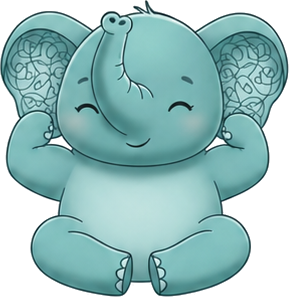
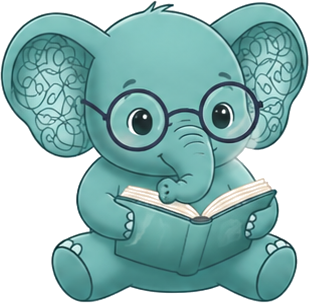
docs: apply captain revision 01 — mascot, AIRA title, remove client name
- Swap the header mascot to the serious reading-with-glasses pose; since it
  reads well on both themes, simplify the <picture> to a single <img> and drop
  the now-unreferenced second pose.
- Add AIRA as a centred <h1> wordmark directly beneath the mascot, above the
  slogan (order: mascot → AIRA → slogan → nav → hero). The slogan is marked in
  a comment as a placeholder that may change and is not referenced elsewhere.
- Remove the pilot client's institution name everywhere (README, one decision
  record, and three reports), generalising to "the pilot client" / "a university
  counseling service in Abu Dhabi" so the market analysis stays intact. Also
  strip the two identifying source URLs from the market report. grep -ri mbzuai
  over the repo now returns nothing.

diff --git a/docs/reports/market-competitive.md b/docs/reports/market-competitive.md
@@ -5,7 +5,7 @@
 Aira: a privacy-first, **local-first** documentation + longitudinal-insight web app for mental-health
 counselors. All patient data stays **encrypted on the therapist's own device** under a password only
 they hold, and is never uploaded. Browser-based, zero-backend. **Launch market: UAE** (first client is
-a counselor at MBZUAI, Abu Dhabi). **Second market: India.**
+a counselor at a university counseling service in Abu Dhabi). **Second market: India.**
 
 > **Naming / architecture note.** The prior brief (`handoff.md`) renamed the product to "Galene" and
 > described a **cloud-hybrid** architecture (in-region UAE backend, tokenized transcripts leave the
@@ -64,7 +64,7 @@ flagged again there.
   region has: **DoH Abu Dhabi Circular 147 (2022) orders licensed health entities to drop cloud
   services even when UAE-hosted**, and health data generally may not leave the UAE. Cloud SaaS
   competitors are structurally disadvantaged here. The one fact that must be pinned down before selling:
-  **is MBZUAI's counseling service regulated as health (DoH) or social-care (DCD), or neither?** — it
+  **is the pilot client's counseling service regulated as health (DoH) or social-care (DCD), or neither?** — it
   changes which rulebook applies. The economic buyer is the **university** (IT + procurement + legal),
   not the counselor.
 - **F — Cheap wins.** The genuinely cheap ones for a zero-backend app: consent-capture + audit log,
@@ -364,7 +364,7 @@ regulated-institution lane deliberately.
 
 ---
 
-## E. The MBZUAI / UAE launch context
+## E. The pilot client / UAE launch context
 
 *Not legal advice — publicly documented sources only; items needing local counsel are flagged. Full
 citations in Appendix E.*
@@ -404,11 +404,10 @@ citations in Appendix E.*
 
 ### The buying context
 
-- **MBZUAI** is a **public graduate university established and funded by the Abu Dhabi government**
-  (2019), with a formal centralized **procurement function** (https://procurementmag.com/company/mbzuai).
-  Its counseling is run through **Educational Affairs** by a Student Counselor / Wellbeing Specialist,
-  an *employee within a department* — **not an independent software buyer**
-  (https://mbzuai.ac.ae/student-resources/educational-affairs/).
+- **The pilot client** is a **public graduate university funded by the Abu Dhabi government**, with a
+  formal centralized **procurement function**. Its counseling is run through student **Educational
+  Affairs** by a Student Counselor / Wellbeing Specialist, an *employee within a department* — **not an
+  independent software buyer**.
 - **Practical read:** the counselor is your **champion**, but the **economic buyer is the university**
   (IT security + procurement + legal/DPO). A per-seat pilot on a department card is plausible as a
   foot-in-the-door, but scaling will draw institutional security review. **Prepare a one-page security/
@@ -416,14 +415,14 @@ citations in Appendix E.*
 
 ### The one fact to pin down before selling (needs local counsel)
 
-**Is MBZUAI's counseling service regulated as (a) a DoH-licensed *health* facility, (b) a **DCD**
+**Is the pilot client's counseling service regulated as (a) a DoH-licensed *health* facility, (b) a **DCD**
 (Department of Community Development) *social-care* service, or (c) an internal university student-
 services function outside both?** Abu Dhabi splits mental-health regulation this way, and it determines
 whether ADHICS + Circular 147 + the ICT Health Law bind it at all
 (https://www.therapyroute.com/article/mental-health-licensing-regulation-in-the-uae-2025-guide-by-therapyroute).
 **COULD NOT VERIFY publicly — this is the single most important compliance fact to confirm with UAE
 counsel, and it is a genuine open decision for the founder (flagged in the completion section).** Also
-unverified: MBZUAI's exact procurement thresholds (department-level vs central tender).
+unverified: the pilot client's exact procurement thresholds (department-level vs central tender).
 
 ### India (second market) — quick pass
 
@@ -520,7 +519,7 @@ since on-device inference is more constrained than a datacenter GPU — the priv
 because privacy is a gate, not a purchase driver. Two further risks: **(1)** the longitudinal analytics
 that justify the premium are the *hardest* thing to compute on-device (no server to crunch a caseload),
 so Aira is betting on doing the hard thing *and* the constrained thing simultaneously; **(2)** the
-regulator-alignment argument (Circular 147) only bites **if** MBZUAI's counseling is DoH-regulated — and
+regulator-alignment argument (Circular 147) only bites **if** the pilot client's counseling is DoH-regulated — and
 that is unverified (Section E). If it turns out to be an internal university function outside health
 regulation, the compliance-forcing advantage weakens to a general-trust advantage, and Aira is back to
 competing on note-quality and time-saved against better-funded incumbents.
@@ -528,8 +527,8 @@ competing on note-quality and time-saved against better-funded incumbents.
 **Mitigation implied by this:** make note-quality/speed *non-negotiably competitive first*, treat
 privacy as the trust gate you pass effortlessly (because it's architecturally true), and make the
 **longitudinal caseload cockpit** the thing the counselor can't get anywhere else — because that, not
-privacy alone, is what a budget-holding institution will actually pay for. And confirm the MBZUAI
-regulatory status early, because it determines how strong the launch-market moat really is.
+privacy alone, is what a budget-holding institution will actually pay for. And confirm the pilot
+client's regulatory status early, because it determines how strong the launch-market moat really is.
 
 ---
 
@@ -672,7 +671,7 @@ regulatory status early, because it determines how strong the launch-market moat
   https://www.lexology.com/library/detail.aspx?g=31a37267-4fd0-4c17-ad9c-dcd292f16493
 - ADHICS v2.0: https://www.cyberarrow.io/blog/adhics-abu-dhabi-healthcare-information-and-cyber-security-standard/
 - DoH vs DCD licensing: https://www.therapyroute.com/article/mental-health-licensing-regulation-in-the-uae-2025-guide-by-therapyroute
-- MBZUAI: https://mbzuai.ac.ae/student-resources/educational-affairs/ · https://procurementmag.com/company/mbzuai
+- Pilot client (public graduate university, Abu Dhabi) — institutional procurement and student educational-affairs profiles; identifying sources withheld to keep the client's identity private to the team.
 - India DPDP: https://www.livelaw.in/articles/cross-border-transfer-healthcare-data-reconciling-india-dpdpa-gdpr-542388 ·
   https://www.dpdpa.com/dpdparules/rule15.html
 
@@ -706,7 +705,7 @@ regulatory status early, because it determines how strong the launch-market moat
 - Synthesized into this report. Every non-obvious claim carries a URL; unverifiable facts are marked
   COULD NOT VERIFY.
 
-**Open decision that belongs to the founder (not resolvable by research):** whether MBZUAI's counseling
+**Open decision that belongs to the founder (not resolvable by research):** whether the pilot client's counseling
 service is DoH-regulated (health), DCD-regulated (social care), or an internal university function —
 which determines how strong the regulatory moat for local-first actually is, and needs UAE local
 counsel. Flagged to the completion gate.

diff --git a/docs/reports/feasibility-stack.md b/docs/reports/feasibility-stack.md
@@ -110,7 +110,7 @@ Two gaps: **(1) Arabic transcription quality**, and **(2) the missing LLM for fl
 |---|---|---|---|
 | **Installable PWA, on-device only** (base/Moonshine models, extractive notes) | Keeps invariant 2 fully intact; generous cached storage; survives iOS 7-day eviction | None — data never leaves device | **Recommended baseline.** Not "any browser tab", but "any browser, installed." Honest and still browser-delivered. |
 | **Smaller/better-fit model** (Moonshine Tiny Arabic 27M instead of Whisper) | Arabic WER ~21% at tiny size, iPhone-friendly | None | **Recommended for Arabic** — *pending* verification of its web/ONNX build (Decision-1). |
-| **Drop Arabic from V1**, ship English/European transcription only; Arabic sessions get manual/typed notes + de-id + longitudinal | Ships something honest now; de-risks the hardest leg | None | **Recommended fallback if Moonshine doesn't pan out.** The first client is bilingual (MBZUAI, English-medium); English transcription + Arabic *analysis* may be enough for the pilot. |
+| **Drop Arabic from V1**, ship English/European transcription only; Arabic sessions get manual/typed notes + de-id + longitudinal | Ships something honest now; de-risks the hardest leg | None | **Recommended fallback if Moonshine doesn't pan out.** The first client is bilingual (the pilot client is English-medium); English transcription + Arabic *analysis* may be enough for the pilot. |
 | **Small native/Electron companion** for heavy model work (large Whisper, bigger de-id, even a small local LLM) | Real note narration; better Arabic; no cloud | Keeps data local, but **breaks "any browser"** — it's an install, per-OS packaging, updates | Fallback if browser ASR quality is a dealbreaker. Contradicts the stated browser-first requirement; flag to founder. |
 | **Bring-your-own-key cloud model** (therapist pastes an OpenAI/Anthropic key for note narration / hard Arabic) | Best quality, trivially | **Breaks invariant 2 — audio/transcript leaves the device to a US API.** Also breaks the old in-region rule. | **Only as an explicit, off-by-default, clearly-labelled "you are sending data to X" toggle.** Never the default. Say so loudly. |
 
@@ -203,7 +203,7 @@ Optimizing for the founder's stated preference: **quality, simplicity, robustnes
 
 ---
 
-## 6. Section E — Build sequence (vertical slices, each demoable to the MBZUAI counselor)
+## 6. Section E — Build sequence (vertical slices, each demoable to the pilot counselor)
 
 Sizes are rough engineering effort, assuming one strong full-stack dev. The point of vertical slices is that each ends in something you can *show*.
 
@@ -216,7 +216,7 @@ Sizes are rough engineering effort, assuming one strong full-stack dev. The poin
 | **4** | **★ Arabic transcription** (Moonshine-Tiny or decision fallback) + RTL polish. | "Record an Arabic session; get usable Arabic text." | **L** | **HIGHEST RISK — de-risk before promising it.** Whisper-size Arabic is not good enough; Moonshine's web build is unverified. |
 | **5** | Hardening: recovery-key UX, storage-pressure warnings, export hygiene, CSP/COEP, accessibility, brand polish. | Pilot-ready. | **M** | Low–med. |
 
-**Sequencing logic:** Slice 0 and 1 are low-risk and *fully demonstrate the differentiated product* (private local vault + deterministic caseload insight) **without any ML** — that's your fastest credible demo to the MBZUAI counselor and it de-risks the whole business case before you spend effort on the fragile ASR legs. **Slice 4 (Arabic) carries the most technical risk and should be spiked in parallel from day one** (the Moonshine web-build verification is cheap and decisive — do it before committing the slice).
+**Sequencing logic:** Slice 0 and 1 are low-risk and *fully demonstrate the differentiated product* (private local vault + deterministic caseload insight) **without any ML** — that's your fastest credible demo to the pilot counselor and it de-risks the whole business case before you spend effort on the fragile ASR legs. **Slice 4 (Arabic) carries the most technical risk and should be spiked in parallel from day one** (the Moonshine web-build verification is cheap and decisive — do it before committing the slice).
 
 **Highest-risk item overall to de-risk first:** *Arabic transcription in-browser* (Slice 4). Second: *iOS persistence + memory* (touches Slices 0 and 2 — test on a real mid-range iPhone early, not the simulator).
 

diff --git a/docs/reports/competitor-site-study.md b/docs/reports/competitor-site-study.md
@@ -266,7 +266,7 @@ Two facts from the prior study must govern the pages, or we will mis-weight them
    **So Aira's pages must not be privacy-only.** Lead with the felt benefit and the one thing no one
    else has (the local caseload cockpit), and let architectural privacy be the *trust differentiator
    that we pass effortlessly and can prove* — not the whole pitch.
-2. **The economic buyer at MBZUAI is the institution, not the counselor.** The counselor is the
+2. **The economic buyer at the pilot client is the institution, not the counselor.** The counselor is the
    champion; university IT/procurement/legal decide. So the site needs **two doors**: a warm
    clinician-facing story *and* a cool, linkable **institutional security/compliance one-pager** that a
    security reviewer can forward. Bryl's whole site is solo-clinician; Mentalyc's security FAQ is the
@@ -288,7 +288,7 @@ Lead options for the H1 (pick/A-B test; all are architecturally true for V1):
   app store, no one else's server."*
 - **C (buyer's-outcome-led):** *"Notes done. Caseload clear. Nothing ever left your laptop."*
 
-**Nouns.** Use **"counselor"** (matches the MBZUAI role) and **"caseload"/"students"** — the prior
+**Nouns.** Use **"counselor"** (matches the pilot client's role) and **"caseload"/"students"** — the prior
 study's own framing is "80 students." Prefer **"client"** or **"student"** over **"patient"**:
 counseling convention and every competitor use "client," and a university wellbeing service uses
 "student." *(Flag: internal Aira materials sometimes say "patient"; recommend standardising the outward
@@ -381,7 +381,7 @@ Answer the category's taught fears — Aira answers most of them *better*:
 ## 2.6 Pricing presentation
 
 - **Model:** the competitors mostly meter per-note or per-session for *solo* buyers. Aira's launch buyer
-  is an **institution** (MBZUAI), so recommend **per-counselor / institutional pricing**, not
+  is an **institution** (the pilot client), so recommend **per-counselor / institutional pricing**, not
   per-session metering — and *do not race to the $16–$29 solo-utility floor* (prior study §G: the
   local-first niche is full of cheap utilities; anchor on trust + insight value sold into a budget).
 - **Presentation patterns worth borrowing:** public, legible pricing; a clear trial; "no card to try";
@@ -399,7 +399,7 @@ As a pre-launch product Aira **cannot and must not fabricate counts or logos.** 
 
 - **Lead with architecture-as-proof** (the honest early-stage substitute): the verifiability demo
   (§2.3) *is* proof; a clear architecture diagram is proof; "runs offline, check it yourself" is proof.
-- **Bank the MBZUAI relationship** into a credentialed champion quote/case study **only with explicit
+- **Bank the pilot-client relationship** into a credentialed champion quote/case study **only with explicit
   consent** — one licensed-counselor testimonial with credentials outweighs a fake "10,000+."
 - **Compliance signalling:** state what's *architecturally* true (on-device, encrypted, no transfer) and
   route regulatory claims to the counsel-reviewed institutional one-pager. **Do not display HIPAA/UAE
@@ -443,7 +443,7 @@ source URL; no legal/compliance conclusion asserted (regulatory wording flagged 
 copy captured only as internal evidence and **not** reproduced onto any Aira surface — recommendations
 extract patterns/mechanics only; no recommended claim exceeds V1's architecture.
 
-**Open item for the captain (not settleable here):** the MBZUAI health-vs-social-care-vs-internal
+**Open item for the captain (not settleable here):** the pilot client's health-vs-social-care-vs-internal
 regulatory classification remains the pending question that determines how strongly the institutional
 one-pager can lean on the UAE data-localisation advantage. It is with the captain separately; the page
 copy above is written to hold up either way (architectural facts, not regulatory verdicts).

diff --git a/README.md b/README.md
@@ -1,10 +1,8 @@
-<h1 align="center" style="margin:0;">
-  <picture>
-    <source media="(prefers-color-scheme: dark)" srcset="docs/assets/aira-mascot-sit.png">
-    <source media="(prefers-color-scheme: light)" srcset="docs/assets/aira-mascot.png">
-    <img alt="Aira mascot — a seafoam elephant" src="docs/assets/aira-mascot.png" height="140" style="max-width:100%;">
-  </picture>
-</h1>
+<p align="center" style="margin:0;">
+  <img alt="Aira mascot — a seafoam elephant reading with glasses" src="docs/assets/aira-mascot.png" height="150" style="max-width:100%;">
+</p>
+<h1 align="center">A&nbsp;I&nbsp;R&nbsp;A</h1>
+<!-- Slogan below is a placeholder and may change. Do not hard-code or reference it elsewhere. -->
 <h3 align="center" style="margin:0;margin-top:0;">
 The counseling record that never leaves your device.
 </h3>
@@ -43,8 +41,8 @@ V1 is:
   browser tab because on-device storage on iPhone is deleted after seven idle days unless the app is
   installed to the home screen;
 - **English-only** and **clinician-facing only**;
-- aimed at a **solo counselor** — the first client is a counselor at **MBZUAI in Abu Dhabi**
-  (launch market: UAE).
+- aimed at a **solo counselor** — the first client is a counselor at **a university counseling
+  service in Abu Dhabi** (launch market: UAE).
 
 What V1 deliberately is **not** — and why — is spelled out in [`AGENTS.md`](AGENTS.md). Read that
 before writing product copy or wiring up a model.

diff --git a/docs/decisions/aira-delivery-target.md b/docs/decisions/aira-delivery-target.md
@@ -5,7 +5,7 @@
 Accepts option (a) from `data/aira-stack-s1/report.md` section 7 Decision-2.
 
 **Why this and not native:** the pilot demo needs no phone and no AI, so a URL is the fastest route
-to the MBZUAI counselor; app-store review for a health app would delay the trial without helping it;
+to the pilot counselor; app-store review for a health app would delay the trial without helping it;
 the counselor's real working surface is a laptop; and a native wrapper can reuse the same codebase
 later without a rewrite.
 
